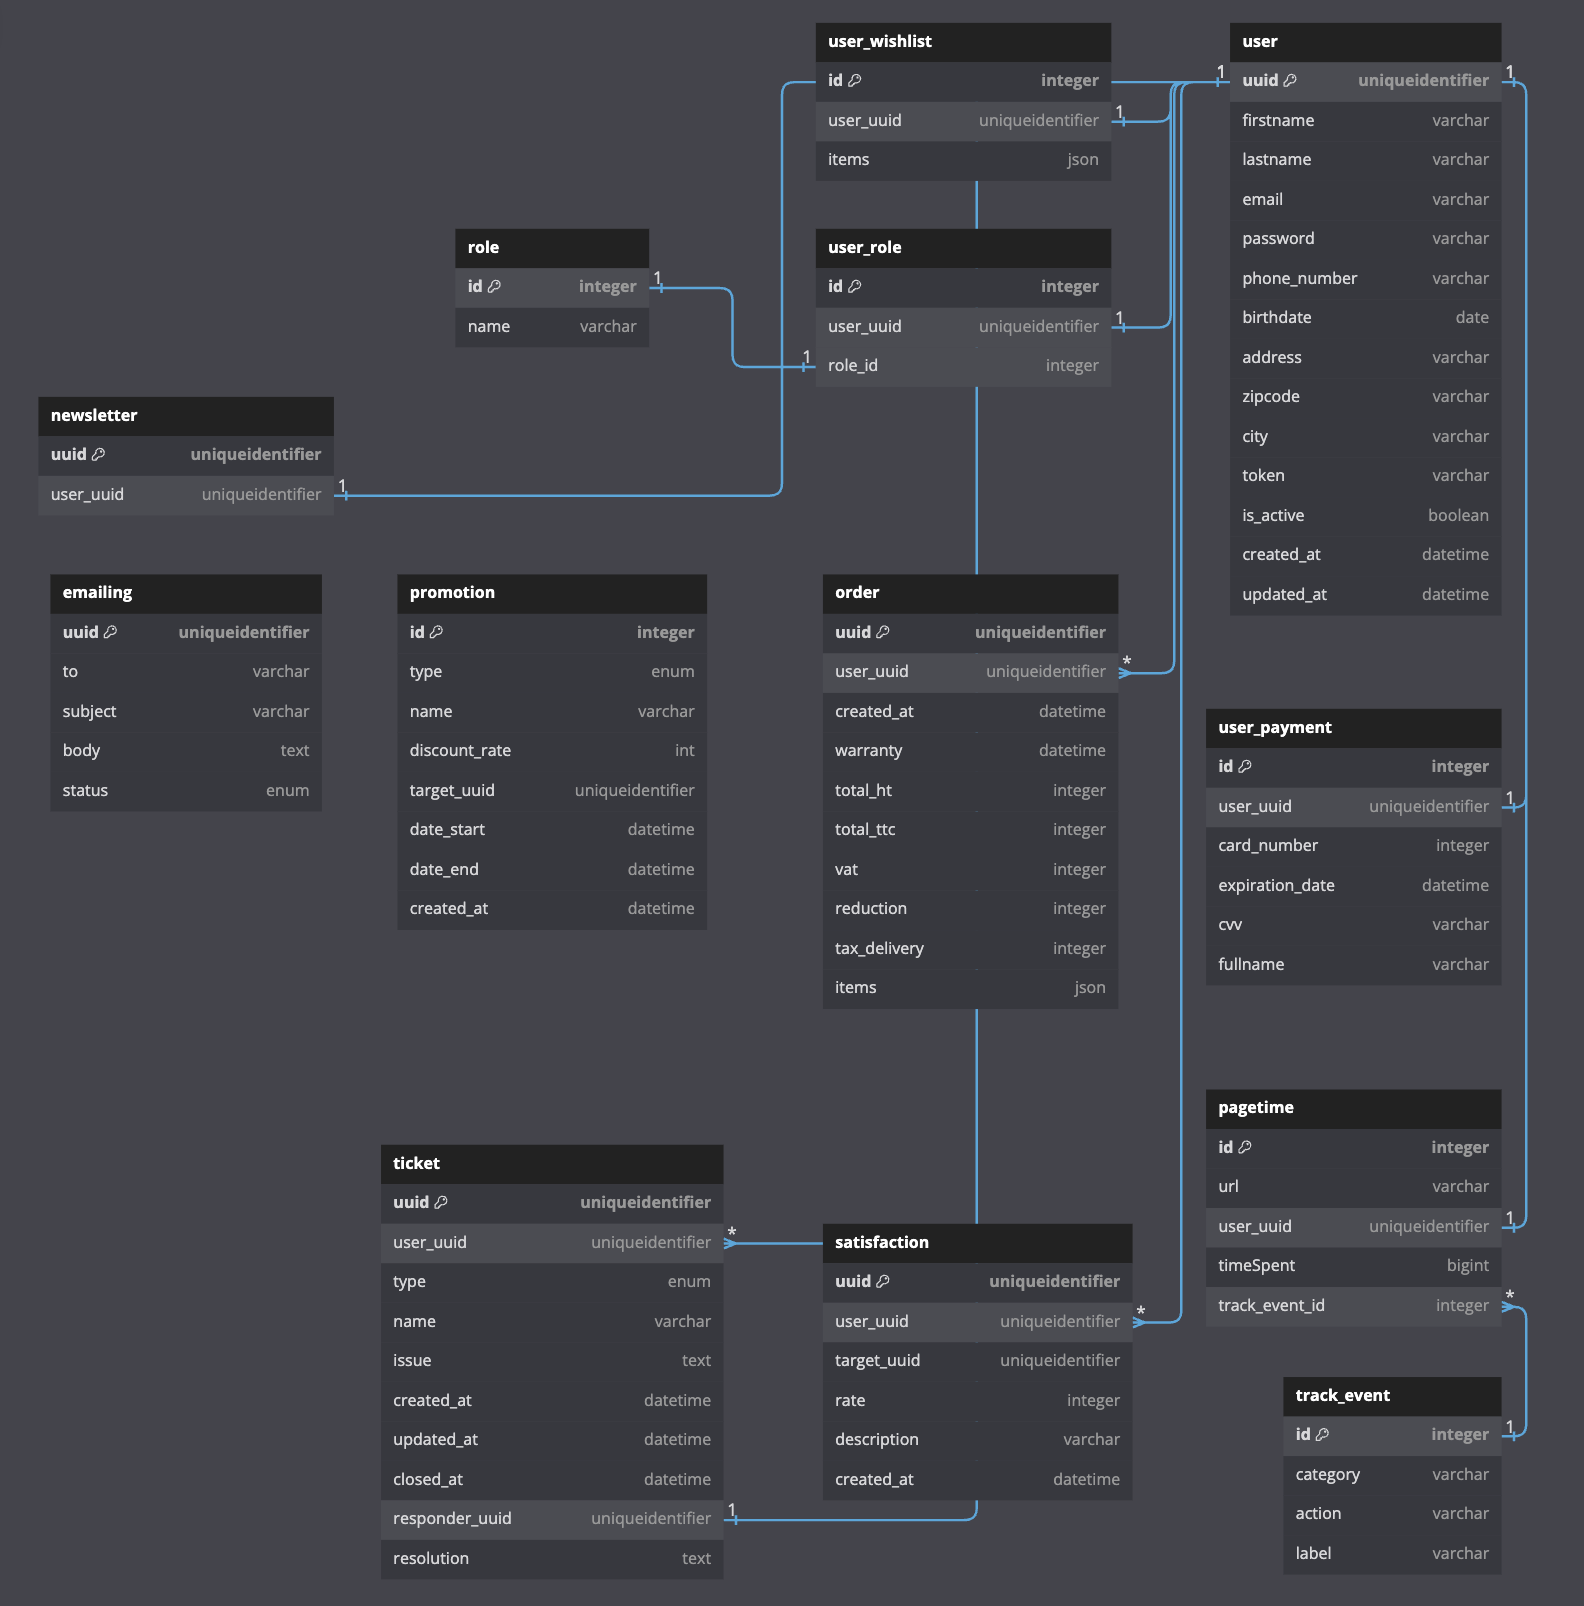
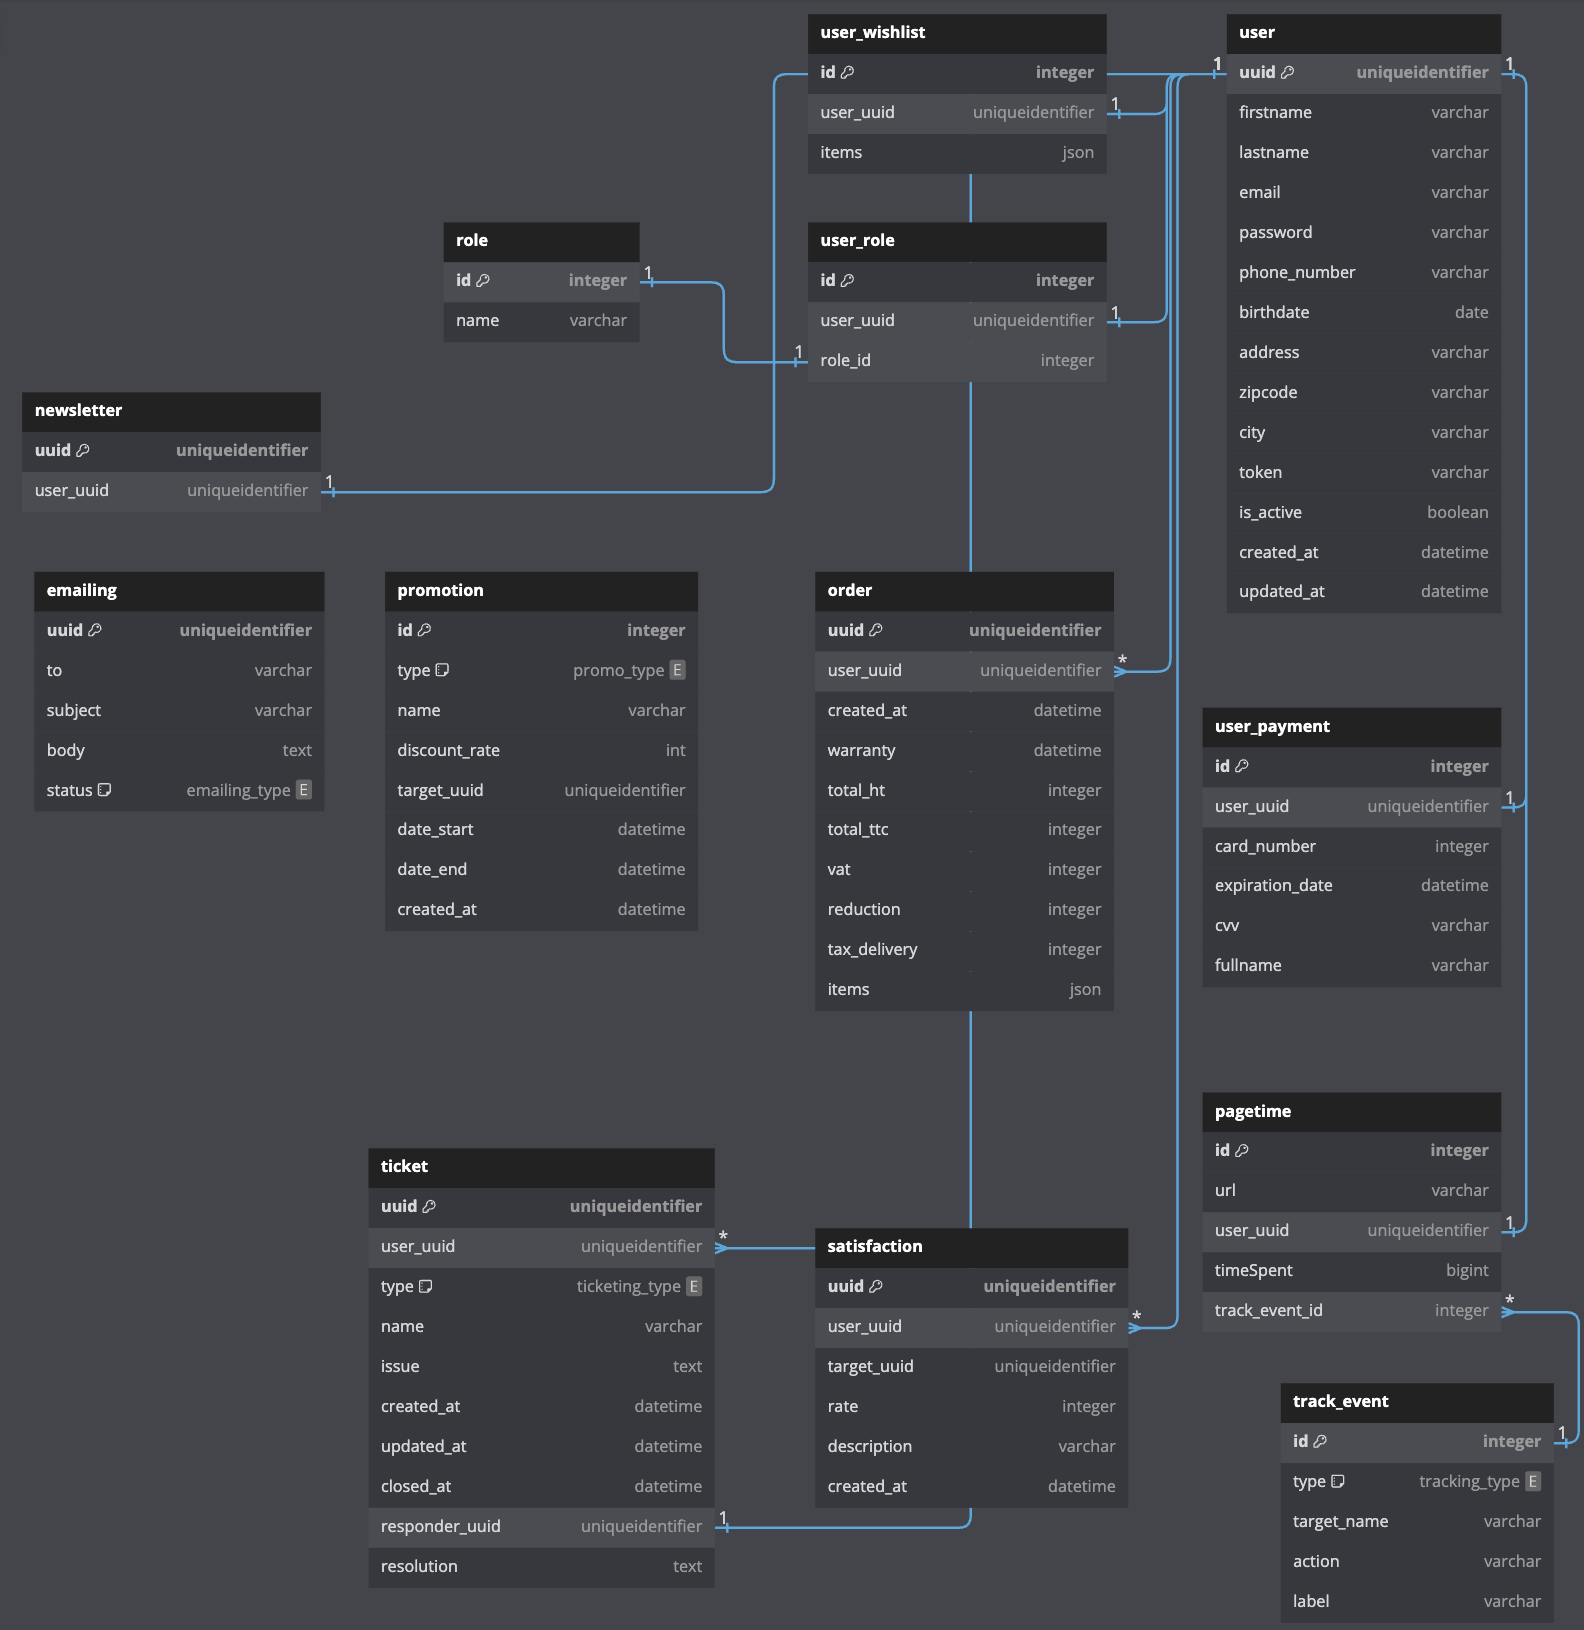
docs: add types for e-commerce database

Changed region(s): [[0.0, 0.0, 1.0, 0.9963], [0.2165, 0.6227, 0.7424, 0.9963], [0.0, 0.3425, 0.464, 0.5915]]

diff --git a/docs/api/index.md b/docs/api/index.md
@@ -30,10 +30,10 @@ Nous avons choisi MySQL comme base de données pour l'API e-commerce pour plusie
 - **Fiabilité et maturité** : base de données relationnelle éprouvée et fiable, utilisée par de nombreuses entreprises à travers le monde. Sa maturité et sa stabilité en font un choix sûr pour les applications critiques.
 - **Support des transactions** : support complet des transactions, ce qui est essentiel pour garantir la cohérence et l'intégrité des données dans une application e-commerce.
 - **Performances optimisées** : optimisé pour les performances avec des capacités d'indexation avancées, des options de configuration pour optimiser les requêtes et une gestion efficace de la mémoire.
-- **Large écosystème** : dispose d'un large écosystème d'outils, de bibliothèques et de frameworks qui facilitent le développement, la gestion et la maintenance des bases de données.
-- **Communauté active** : bénéficie d'une communauté active et de ressources abondantes, ce qui permet de trouver facilement de l'aide et des solutions aux problèmes courants.
 - **Compatibilité avec les standards SQL** : compatibilité avec les standards SQL, ce qui facilite la migration et l'intégration avec d'autres systèmes de gestion de bases de données.
 
 L'utilisation de MySQL pour l'API e-commerce de la plateforme **Archidéco** permet de garantir une gestion efficace des transactions, une haute performance et une intégrité des données, tout en profitant de l'écosystème riche et du support communautaire de MySQL.
 
 ![Archidéco E-commerce Database](./assets/db_ecommerce.png)
+
+![Ticketing Type](./assets/tracking_type.png) ![Tracking Type](./assets/tracking_type.png) ![Emailing Type](./assets/emailing_type.png) ![Promo Type](./assets/promo_type.png)
